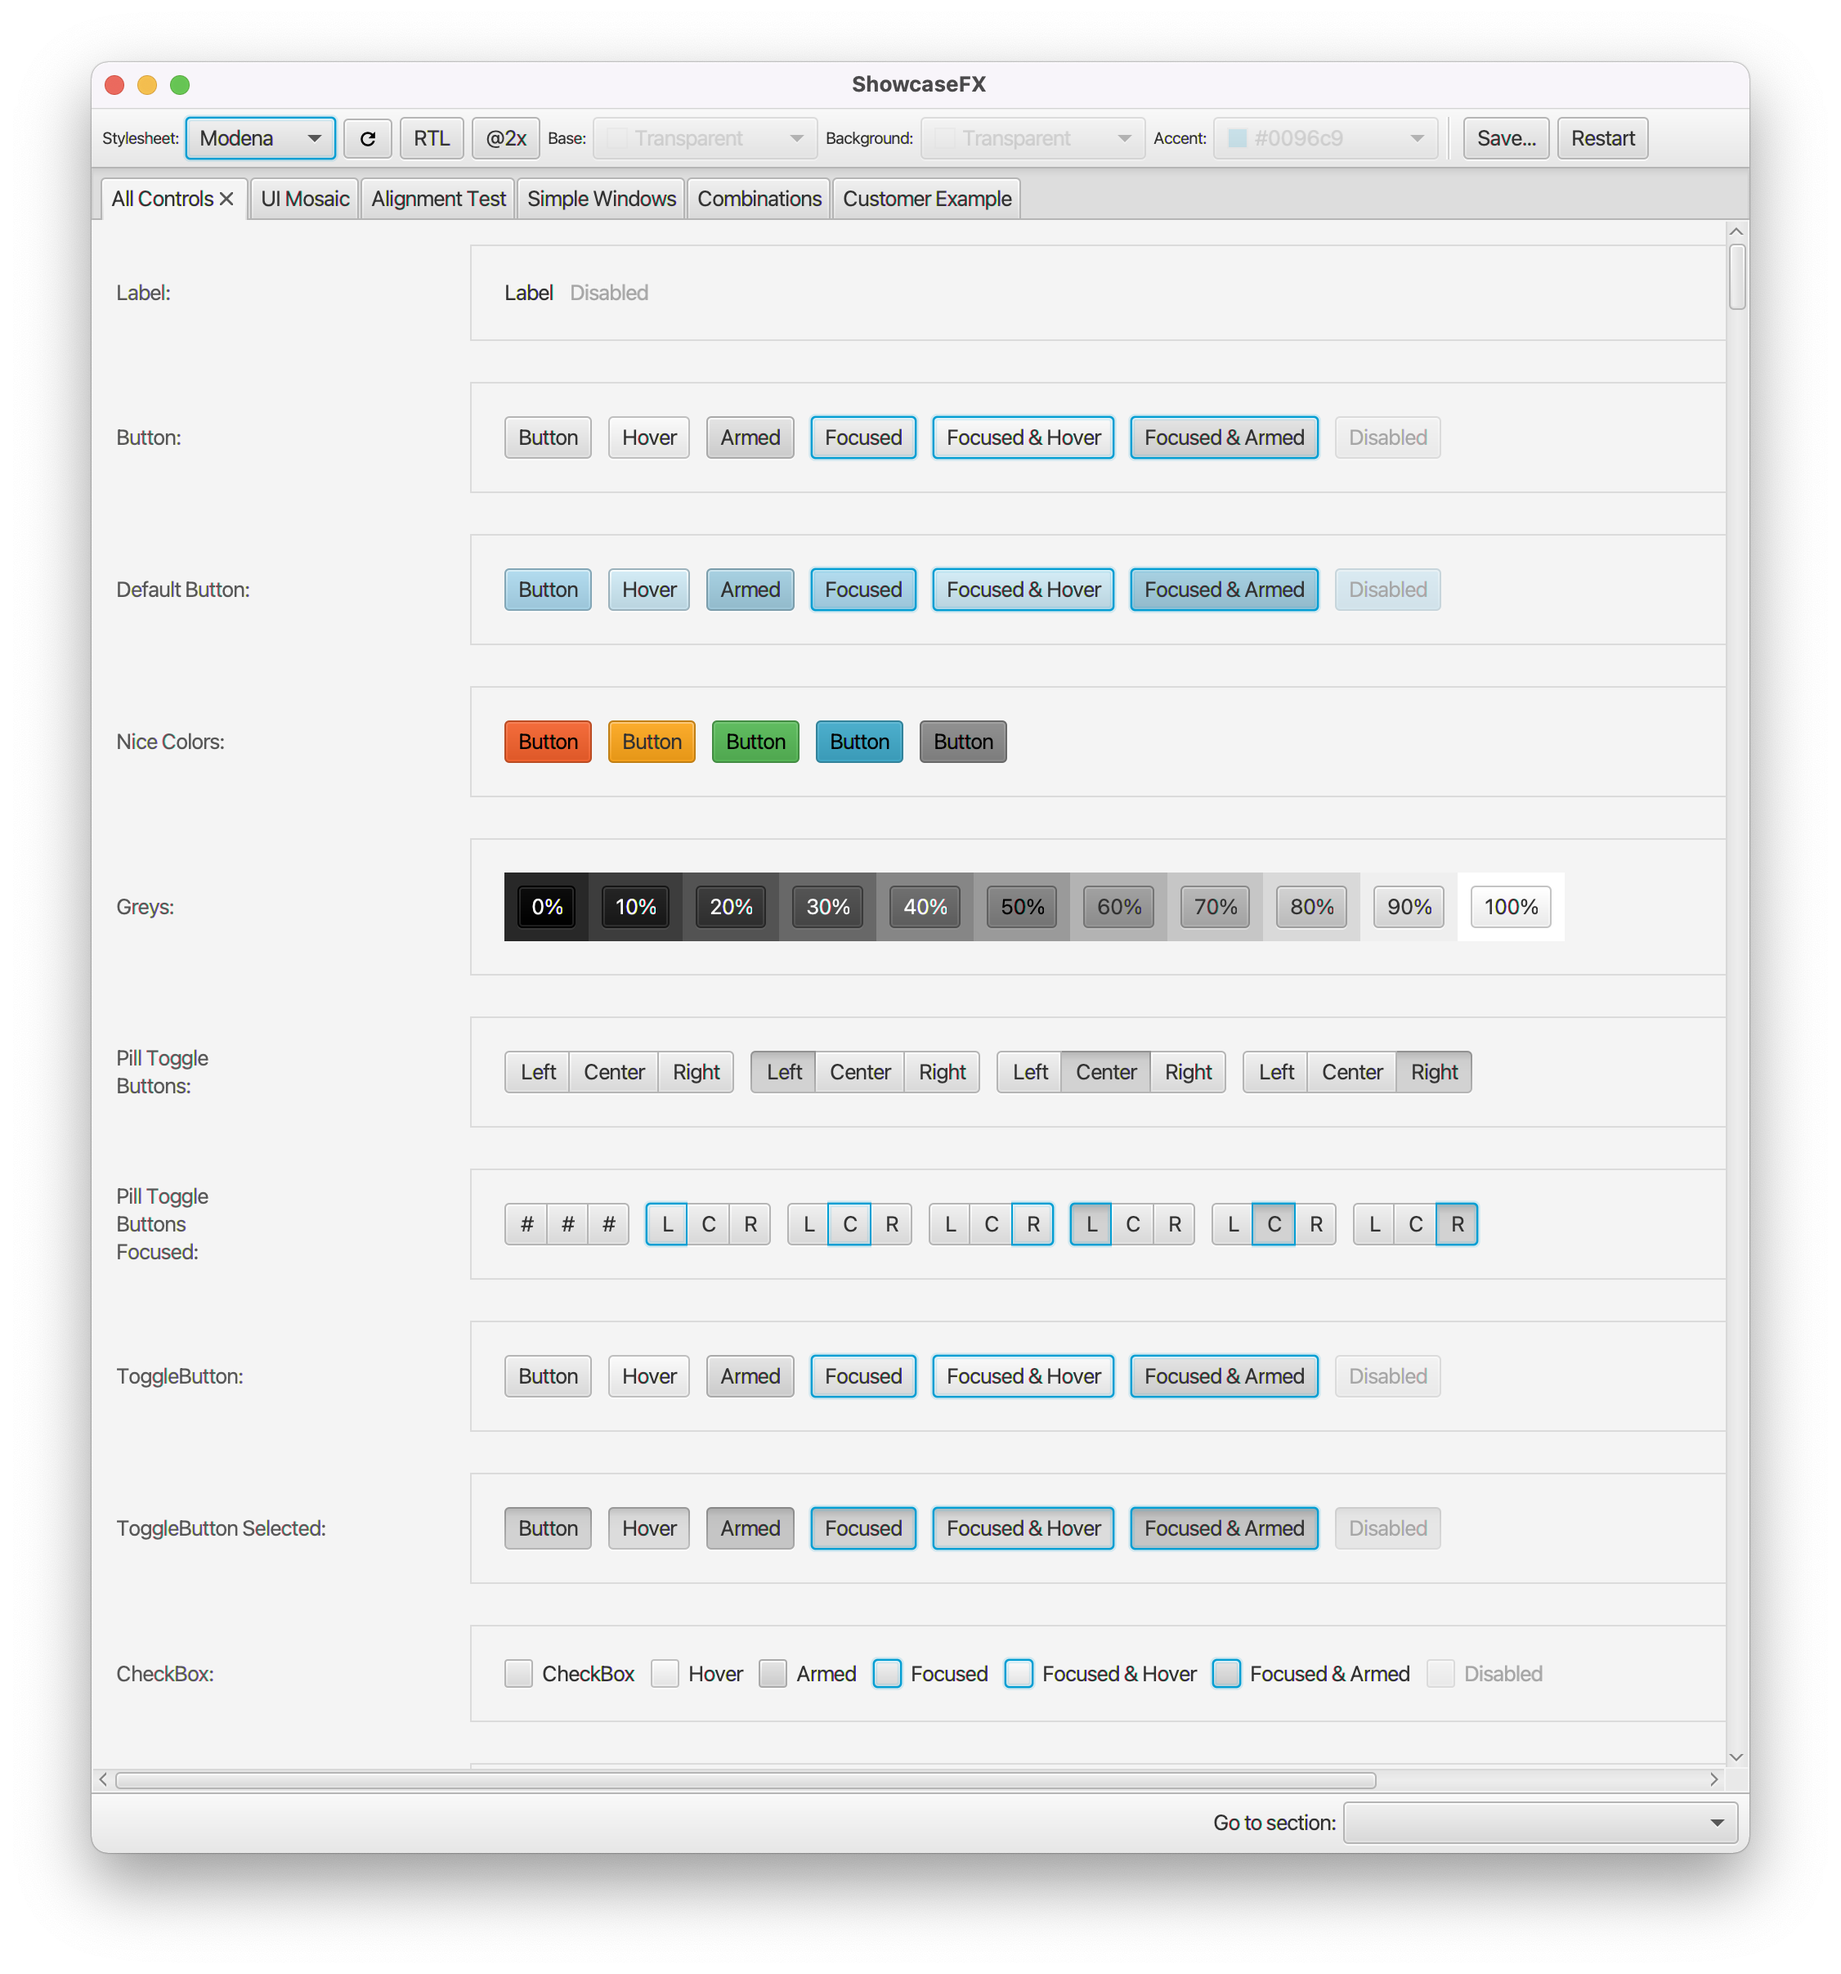
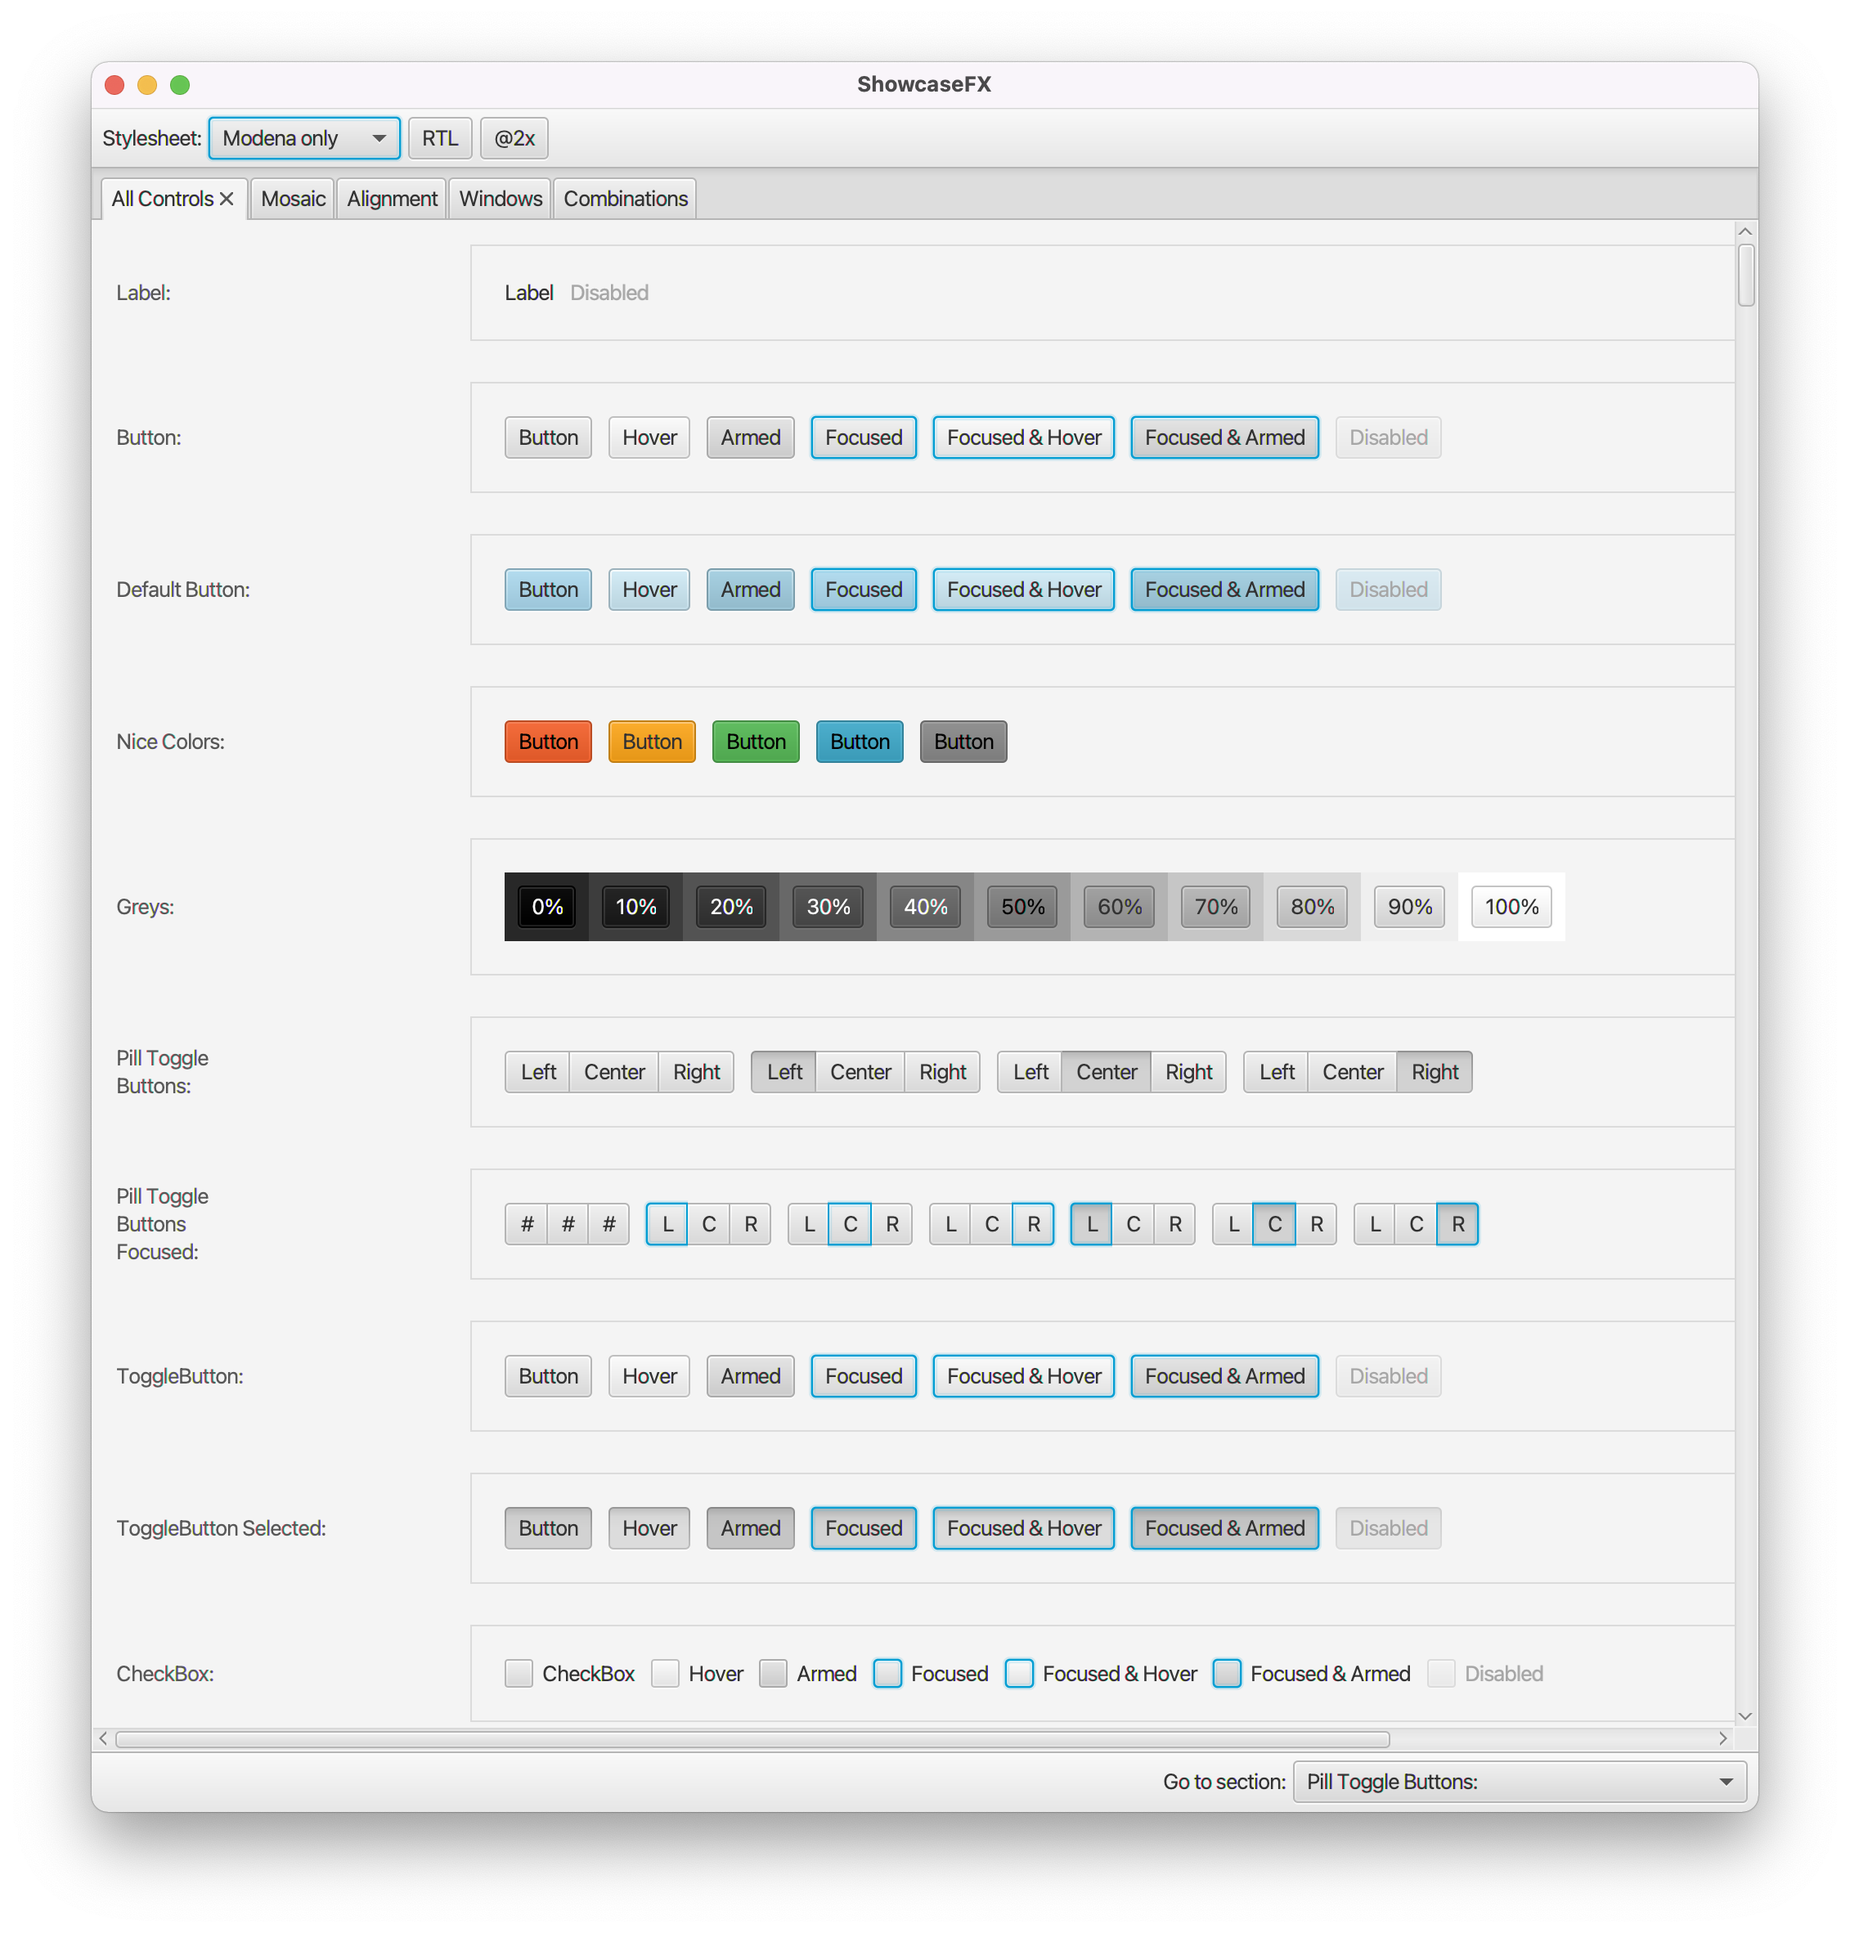
Initial work.

diff --git a/src/main/java/com/dlsc/showcase/impl/CssShowcaseViewSkin.java b/src/main/java/com/dlsc/showcase/impl/CssShowcaseViewSkin.java
@@ -152,15 +152,6 @@ public class CssShowcaseViewSkin extends SkinBase<CssShowcaseView> {
             });
 
             stylesheetsBox.itemsProperty().bind(getSkinnable().configurationsProperty());
-            stylesheetsBox.valueProperty().addListener((it, oldValue, newValue) -> {
-                if (oldValue != null) {
-                    oldValue.getStylesheetUrls().forEach(url -> getSkinnable().getStylesheets().remove(url));
-                }
-                if (newValue != null) {
-                    newValue.getStylesheetUrls().forEach(url -> getSkinnable().getStylesheets().add(url));
-                }
-            });
-
             stylesheetsBox.valueProperty().bindBidirectional(getSkinnable().selectedConfigurationProperty());
 
             rtlButton = new ToggleButton("RTL");

diff --git a/src/main/java/com/dlsc/showcase/CssShowcaseView.java b/src/main/java/com/dlsc/showcase/CssShowcaseView.java
@@ -25,7 +25,18 @@ public class CssShowcaseView extends Control {
             }
         });
 
-        getConfigurations().add(new CssConfiguration("Modena only"));
+        selectedConfigurationProperty().addListener((it, oldValue, newValue) -> {
+            if (oldValue != null) {
+                oldValue.getStylesheetUrls().forEach(url -> getStylesheets().remove(url));
+            }
+            if (newValue != null) {
+                newValue.getStylesheetUrls().forEach(url -> getStylesheets().add(url));
+            }
+        });
+
+        CssConfiguration modenaOnly = new CssConfiguration("Modena only");
+        getConfigurations().add(modenaOnly);
+        setSelectedConfiguration(modenaOnly);
     }
 
     @Override

diff --git a/README.md b/README.md
@@ -4,20 +4,21 @@
 
 [![Maven Central](https://img.shields.io/maven-central/v/com.dlsc.showcasefx/showcasefx)](https://search.maven.org/search?q=g:com.dlsc.showcasefx%20AND%20a:showcasefx)
 
-This project contains a standalone application and an embeddable control that can be used to preview the results produced by stylesheets.
+This project contains a single control called `CssShowcaseView` that can be used to preview the results produced by adding one or more stylesheets on top of the built-in modena stylesheet. This view can be run as part of a standalone CSS testing application or integrated into a customer application as a developer option. 
 
-### Standalone
-
-The main application is com.dlsc.showcase.ShowcaseApp
-
-### Embeddable ShowcasePane
+### Usage
 
 ```java
-StylesheetEntry entry = new StylesheetEntry("My Style", "url/to/stylesheet.css");
+// A CSS configuration with three stylesheets that will be used to
+// extend the built-in Modena.css file.
+CssConfiguration config = new CssConfiguration("My Style", 
+        "url/to/stylesheet1.css", 
+        "url/to/stylesheet2.css", 
+        "url/to/stylesheet3.css");
 
-ShowcasePane pane = new ShowcasePane();
-pane.getAvailableStylesheets().add(entry);
-pane.setSelectedStylesheet(entry);
+CssShowcaseView view = new CssShowcaseView();
+view.getConfigurations().add(config);
+view.setSelectedConfiguration(config);
 
 // then add pane to your UI
 ```
